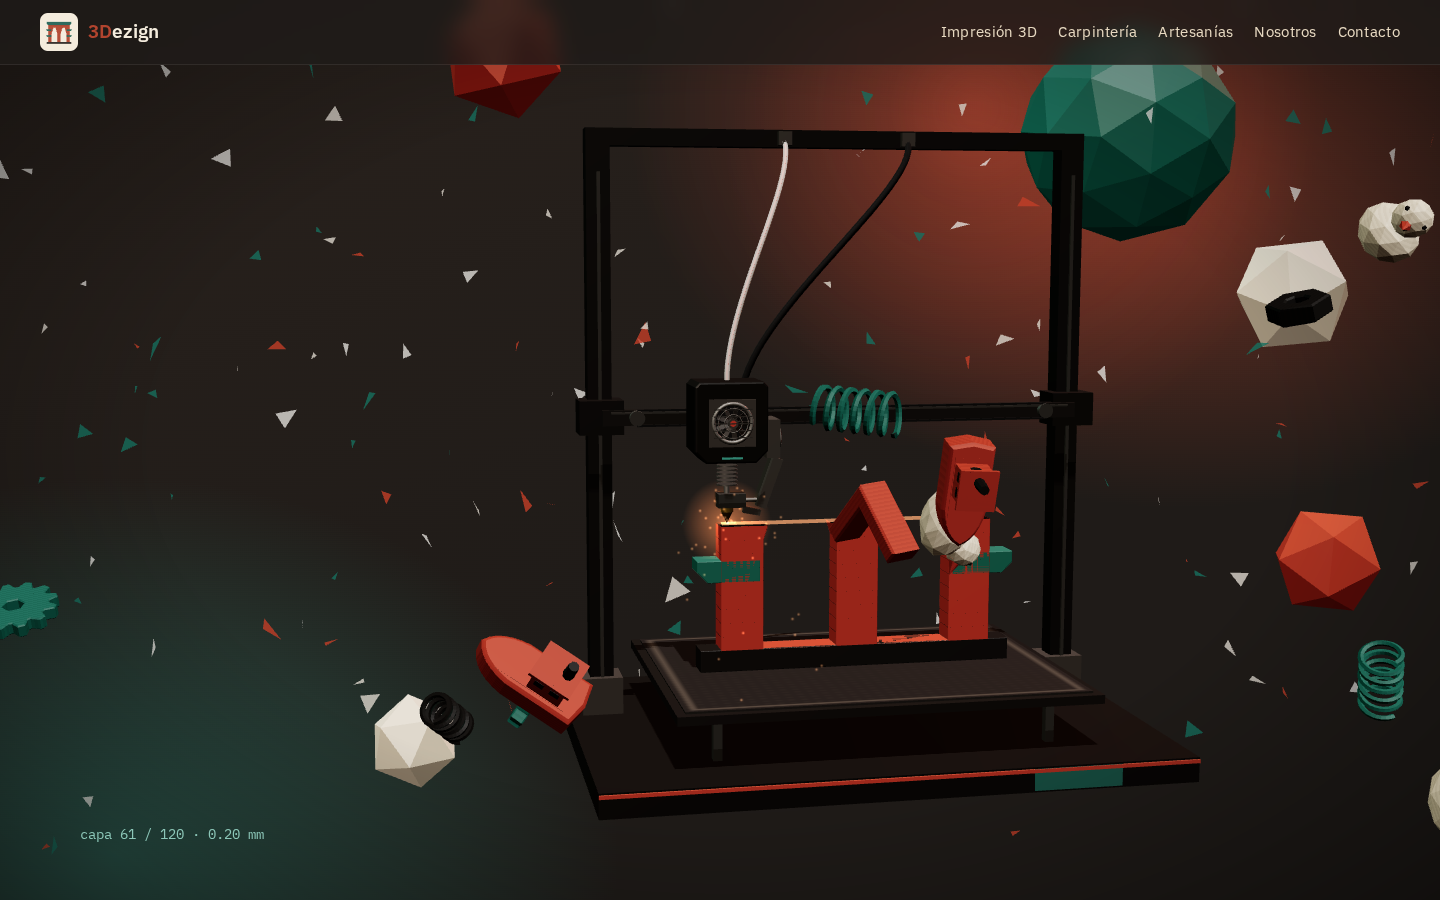
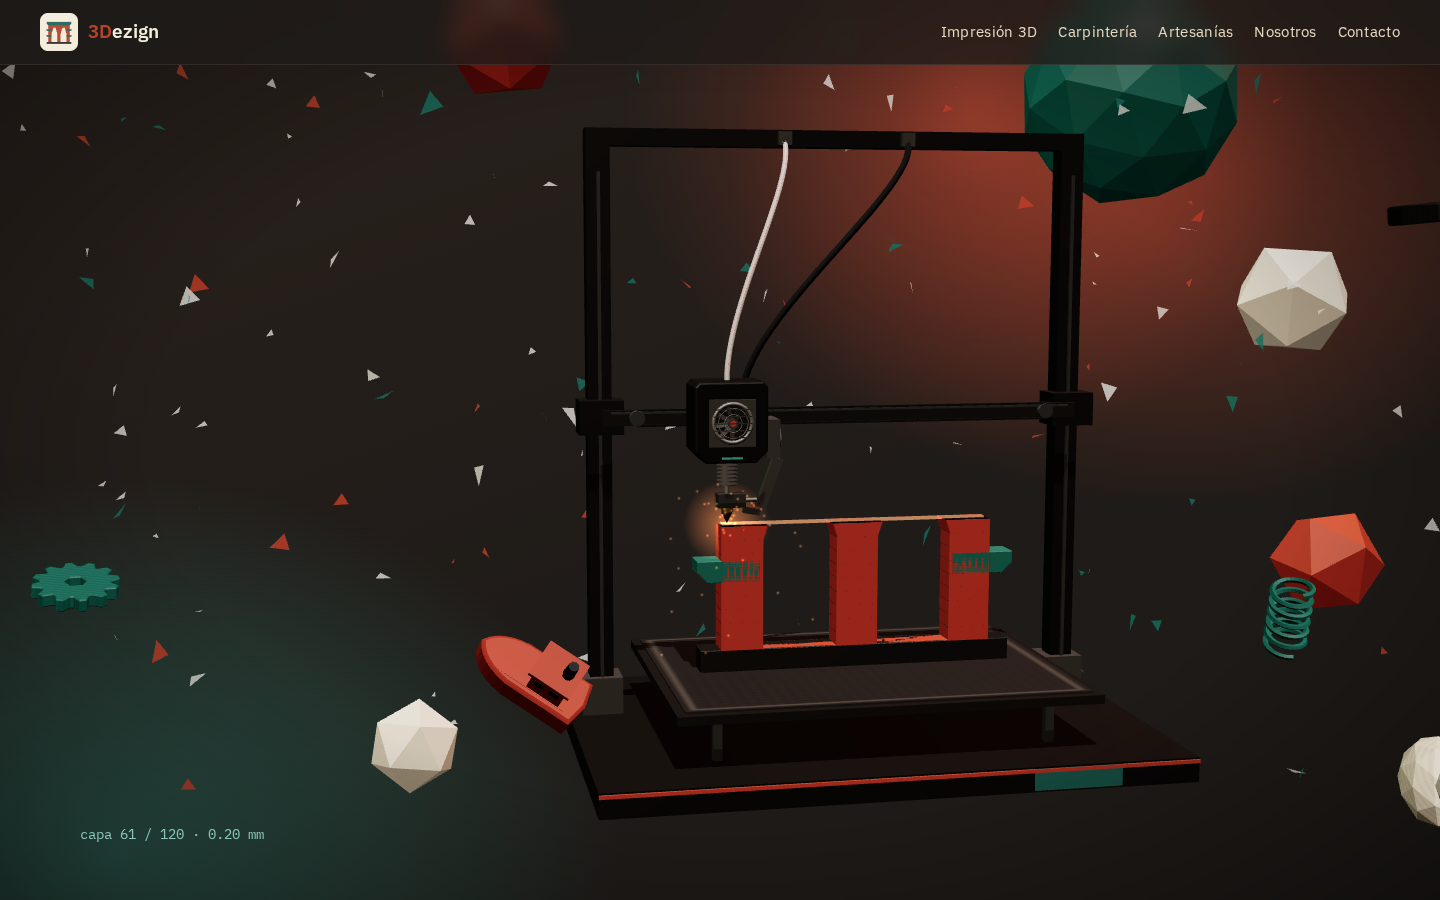
Objetos por sección (fondo 25% + blur), arco maya y gema low-poly, menú con Lenis, reduced-motion solo fundido, cámara <375px, capturas 360/pie

diff --git a/src/floaters.js b/src/floaters.js
@@ -68,6 +68,12 @@ function models(C) {
   const helix = Array.from({ length: 121 }, (_, i) => { const a = i / 120 * Math.PI * 2 * 6; return new THREE.Vector3(Math.cos(a) * 0.22, -0.45 + i / 120 * 0.9, Math.sin(a) * 0.22); });
   M.spring = [[flat(new THREE.TubeGeometry(new THREE.CatmullRomCurve3(helix), 160, 0.035, 5)), C.jade]];
   M.spring2 = [[flat(new THREE.TubeGeometry(new THREE.CatmullRomCurve3(helix.map(v => new THREE.Vector3(v.x * 0.7, v.y * 0.8, v.z * 0.7))), 160, 0.03, 5)), C.carbon]];
+  // --- Gema facetada (Artesanías)
+  M.gem = [[flat(new THREE.OctahedronGeometry(0.42, 0).scale(1, 1.35, 1)), C.jade]];
+  // --- Arco maya (isotipo): bloque con falsa bóveda escalonada
+  const ar = new THREE.Shape(); ar.moveTo(-0.5, -0.45); ar.lineTo(0.5, -0.45); ar.lineTo(0.5, 0.45); ar.lineTo(-0.5, 0.45); ar.closePath();
+  const vh = new THREE.Path(); [[-0.2, -0.45], [-0.2, -0.05], [-0.13, -0.05], [-0.13, 0.08], [-0.06, 0.08], [-0.06, 0.2], [0, 0.28], [0.06, 0.2], [0.06, 0.08], [0.13, 0.08], [0.13, -0.05], [0.2, -0.05], [0.2, -0.45]].forEach(([x, y], k) => k ? vh.lineTo(x, y) : vh.moveTo(x, y)); ar.holes.push(vh);
+  M.arch = [[ext(ar, 0.22, 0.015), C.terracota], [flat(at(new THREE.BoxGeometry(1.1, 0.08, 0.3), 0, 0.5, 0)), C.jade]];
   return M;
 }
 
@@ -84,13 +90,18 @@ export function createFloaters(canvas, { reduced, avoid = '' }) {
   const rim = new THREE.DirectionalLight(new THREE.Color(C.jade), 0.9); rim.position.set(-5, 2, -3); scene.add(rim);
 
   const M = models(C), mats = {};
-  const kinds = ['benchy', 'duck', 'gear', 'spring', 'nut', 'hinge', 'duck', 'bolt', 'bracket', 'gear2', 'benchy', 'flange', 'spring2', 'duck', 'gear', 'spring'];
-  const list = mobile ? ['benchy', 'duck', 'gear', 'spring', 'nut', 'gear2', 'spring2', 'duck', 'bolt'] : kinds;
+  // cada sección tiene sus objetos: Impresión = engranes + tuerca; Carpintería = escuadra + bisagra; Artesanías = patitos + gema; Nosotros = arco maya; Contacto = Benchy
+  const SEC = mobile
+    ? { hero: ['benchy', 'gear', 'duck', 'spring'], impresion: ['gear', 'nut', 'gear2'], carpinteria: ['bracket', 'hinge'], artesanias: ['duck', 'gem', 'duck'], nosotros: ['arch'], contacto: ['benchy'] }
+    : { hero: ['benchy', 'duck', 'gear', 'spring', 'nut', 'bolt', 'spring2', 'flange'], impresion: ['gear', 'nut', 'gear2', 'nut'], carpinteria: ['bracket', 'hinge', 'bracket'], artesanias: ['duck', 'gem', 'duck'], nosotros: ['arch', 'arch'], contacto: ['benchy', 'benchy'] };
+  const list = [], secOf = [];
+  for (const [sec, ks] of Object.entries(SEC)) ks.forEach(k => { list.push(k); secOf.push(sec); });
+  const BG = 0.25; // en secciones: fondo al 20 % de opacidad + desenfoque leve, el texto conserva su contraste
   const objs = list.map((k, i) => {
     const g = new THREE.Group(); for (const [geo, c] of M[k]) { const m = (mats[c] ??= printMat(c)).clone(); m.onBeforeCompile = mats[c].onBeforeCompile; m.transparent = true; g.add(new THREE.Mesh(geo, m)); } // geometría compartida, sin sombras
     const z = -1 - (i * 2.3 % 5);                     // profundidad → parallax
-    const side = mobile && i < 7 ? (i % 3 === 0 ? -1 : 1) : (i % 2 ? 1 : -1);                         // entra por izquierda o derecha
-    g.userData = { lane: mobile && i < 7, a: 1, z, side, off: i / list.length, speed: 0.9 + (i * 0.37 % 0.5), curve: 0.6 + (i * 0.53 % 1.2), spin: new THREE.Vector3(0.6 + i % 3 * 0.3, 1 + i % 2, 0.3), base: (mobile ? (i < 7 ? 0.4 : 0.42) : 0.95) * (0.85 + (i * 0.29 % 0.4)) };
+    const side = mobile ? (i % 3 === 0 ? -1 : 1) : (i % 2 ? 1 : -1);                         // entra por izquierda o derecha
+    g.userData = { sec: secOf[i], s: secOf[i] === 'hero' ? 1 : 0, lane: mobile || secOf[i] !== 'hero', a: 1, z, side, off: i / list.length, speed: 0.9 + (i * 0.37 % 0.5), curve: 0.6 + (i * 0.53 % 1.2), spin: new THREE.Vector3(0.6 + i % 3 * 0.3, 1 + i % 2, 0.3), base: (mobile ? 0.4 : 0.95) * (0.85 + (i * 0.29 % 0.4)) };
     g.scale.setScalar(g.userData.base); scene.add(g); return g;
   });
   let p = 0, W = 1, H = 1;
@@ -100,13 +111,15 @@ export function createFloaters(canvas, { reduced, avoid = '' }) {
   const halfAt = z => { const d = camera.position.z - z, hh = Math.tan(THREE.MathUtils.degToRad(camera.fov / 2)) * d; return [hh * camera.aspect, hh]; };
   function place(o, prog, t) {
     const u = o.userData, [hw, hh] = halfAt(u.z);
-    const f = ((prog * u.speed * 3 + u.off) % 1 + 1) % 1;             // cada objeto cruza ~3 veces en la página, escalonado
-    if (mobile && o.userData.lane) {
+    const lp = u.sec === 'hero' ? prog * 3 : (u.lp ?? 0); // objetos de sección: avanzan con el scroll de su propia sección
+    const f = ((lp * u.speed + u.off) % 1 + 1) % 1;             // cada objeto cruza ~3 veces en la página, escalonado
+    if (o.userData.lane) {
       // celular: carriles en los bordes; bajan/suben con el scroll asomándose medio fuera de pantalla
-      const f2 = ((prog * u.speed * 5 + u.off) % 1 + 1) % 1; // más pasadas en celular
-      const inner = hw - u.base * 0.55, out = hw + u.base * 0.8; // dentro: visible en huecos; fuera: escondido tras el borde
+      const f2 = ((lp * u.speed * (u.sec === 'hero' ? 5 / 3 : 1) + u.off) % 1 + 1) % 1; // más pasadas en celular
+      const inner = hw - u.base * (mobile ? 0.55 : 1.1), out = hw + u.base * 0.8; // dentro: visible en huecos; fuera: escondido tras el borde
       const x = u.side * THREE.MathUtils.lerp(out, inner, u.k ?? 0);
-      const y = THREE.MathUtils.lerp(1.15, -1.15, f2) * hh;
+      const yr = u.sec === 'hero' ? 1.15 : 0.82; // objetos de sección: siempre dentro de la pantalla mientras su sección está activa
+      const y = THREE.MathUtils.lerp(yr, -yr, u.sec === 'hero' ? f2 : 0.5 - 0.5 * Math.cos(f2 * Math.PI * 2)) * hh;
       o.position.set(x, y, u.z);
     } else {
     const x = THREE.MathUtils.lerp(-1.25, 1.25, f) * hw * u.side;
@@ -120,11 +133,11 @@ export function createFloaters(canvas, { reduced, avoid = '' }) {
   const v = new THREE.Vector3();
   function fade(o, rects, instant) {
     v.copy(o.position).project(camera);
-    const sx = (v.x + 1) / 2 * W, sy = (1 - v.y) / 2 * H, [, hh] = halfAt(o.userData.z), rad = o.userData.base * (mobile ? 0.6 : 0.8) / hh * H / 2 + (mobile ? (o.userData.lane ? 0 : 6) : 36); // margen amplio: se va antes de llegar
+    const sx = (v.x + 1) / 2 * W, sy = (1 - v.y) / 2 * H, [, hh] = halfAt(o.userData.z), rad = o.userData.lane ? o.userData.base * 0.6 / hh * H / 2 + 4 : o.userData.base * (mobile ? 0.6 : 0.8) / hh * H / 2 + (mobile ? 6 : 36); // margen amplio: se va antes de llegar
     const hit = rects.some(r => sx + rad > r.left && sx - rad < r.right && sy + rad > r.top && sy - rad < r.bottom);
-    const target = hit ? 0 : 1; o.userData.a = instant ? target : o.userData.a + (target - o.userData.a) * 0.3; if (o.userData.a < 0.03) o.userData.a = 0;
+    const u = o.userData, target = hit ? 0 : u.s * (u.sec === 'hero' ? 1 : BG); u.a = instant ? target : u.a + (target - u.a) * 0.3; if (o.userData.a < 0.01) o.userData.a = 0;
     o.visible = o.userData.a > 0;
-    o.traverse(m => { if (m.material) { m.material.opacity = o.userData.a; m.material.depthWrite = o.userData.a > 0.9; } });
+    o.traverse(m => { if (m.material) { m.material.opacity = o.userData.a; m.material.depthWrite = o.userData.a > 0.9 || (u.sec !== 'hero' && o.userData.a > BG * 0.9); } });
   }
   const els = avoid ? [...document.querySelectorAll(avoid)] : [];
     const rng = document.createRange();
@@ -133,13 +146,21 @@ export function createFloaters(canvas, { reduced, avoid = '' }) {
   function visibleRects() { const out = []; for (const e of els) { const r = e.getBoundingClientRect(); if (r.bottom < 0 || r.top > H || !r.width) continue; if (+getComputedStyle(e).opacity < 0.1) continue;
     if (tight(e)) { rng.selectNodeContents(e); out.push(...rng.getClientRects()); } else if (mobile && e.matches('.canales')) { for (const c of e.children) out.push(c.getBoundingClientRect()); } else out.push(r); } return out; }
   const hitAt = (x, y, z, rad, rects) => { v.set(x, y, z).project(camera); const sx = (v.x + 1) / 2 * W, sy = (1 - v.y) / 2 * H; return rects.some(r => sx + rad > r.left && sx - rad < r.right && sy + rad > r.top && sy - rad < r.bottom); };
-  function render(prog, t = 0, instant = false) { const rects = visibleRects(); for (const o of objs) {
-    if (mobile && o.userData.lane) { // carril de borde: entra a la pantalla solo donde hay hueco (entre bloques/secciones) y se esconde junto al texto
+  const secEls = {}; for (const k of Object.keys(SEC)) secEls[k] = k === 'hero' ? document.querySelector('.hero, #hero') : document.getElementById(k);
+  function sections() { // sección activa = la que ocupa el centro de la pantalla; progreso local de cada sección
+    let cur = 'hero'; const loc = {};
+    for (const [k, e] of Object.entries(secEls)) { if (!e || k === 'hero') continue; const r = e.getBoundingClientRect(); loc[k] = (H - r.top) / (r.height + H); if (r.top < H * 0.5 && r.bottom > H * 0.5) cur = k; }
+    if (secEls.impresion && secEls.impresion.getBoundingClientRect().top > H * 0.5) cur = 'hero';
+    for (const o of objs) { const u = o.userData; if (u.sec !== 'hero') u.lp = loc[u.sec] ?? 0; u.s += ((u.sec === cur ? 1 : 0) - u.s) * 0.2; if (u.s < 0.02) u.s = 0; }
+    canvas.style.filter = cur === 'hero' ? '' : 'blur(1.2px)';
+  }
+  function render(prog, t = 0, instant = false) { sections(); const rects = visibleRects(); for (const o of objs) {
+    if (o.userData.lane) { // carril de borde: entra a la pantalla solo donde hay hueco (entre bloques/secciones) y se esconde junto al texto
       const u = o.userData; place(o, prog, t); const [hw, hh] = halfAt(u.z), rad = u.base * 0.6 / hh * H / 2 + 4;
-      const free = !hitAt(u.side * (hw - u.base * 0.55), o.position.y, u.z, rad, rects);
+      const free = !hitAt(u.side * (hw - u.base * (mobile ? 0.55 : 1.1)), o.position.y, u.z, rad, rects);
       u.k = (u.k ?? 0) + ((free ? 1 : 0) - (u.k ?? 0)) * 0.35;
     }
-    place(o, prog, t); fade(o, rects, instant); } renderer.render(scene, camera); }
+    if (!o.userData.s && !o.userData.a) { o.visible = false; continue; } place(o, prog, t); fade(o, rects, instant); } renderer.render(scene, camera); }
   if (reduced) { // quietos: posiciones fijas en los márgenes, un solo render
     const fixed = mobile ? [[-0.85, -0.55], [0.85, -0.7], [-0.85, 0.55]] : [[-0.88, 0.6], [0.9, -0.65], [-0.9, -0.7], [0.88, 0.45]];
     objs.forEach((o, i) => { const f = fixed[i]; o.visible = !!f; if (!f) return; const [hw, hh] = halfAt(o.userData.z); o.position.set(f[0] * hw, f[1] * hh, o.userData.z); o.rotation.set(0.4, 0.6 + i, 0.1); });

diff --git a/src/main.js b/src/main.js
@@ -79,12 +79,17 @@ if (reduced) {
   const fc = document.querySelector('#floaters'), hero = document.querySelector('#hero');
   const clip = () => { const b = Math.max(0, hero.getBoundingClientRect().bottom); fc.style.clipPath = `inset(0 0 ${Math.max(0, innerHeight - b)}px 0)`; fc.style.visibility = b <= 0 ? 'hidden' : 'visible'; };
   clip(); addEventListener('scroll', clip, { passive: true }); addEventListener('resize', clip);
+  // secciones: solo fundido de opacidad (sin desplazamiento, sin acercamiento)
+  const io = new IntersectionObserver(es => es.forEach(e => { if (e.isIntersecting) { e.target.classList.add('in'); io.unobserve(e.target); } }), { rootMargin: '0px 0px -10% 0px' });
+  document.querySelectorAll('.reveal').forEach(el => io.observe(el));
   scene.setProgress(1); capa.textContent = 120; // el texto de cierre no se muestra: el hero ya ocupa ese espacio
 } else {
   const lenis = new Lenis();
   lenis.on('scroll', ScrollTrigger.update);
   gsap.ticker.add(t => lenis.raf(t * 1000)); gsap.ticker.lagSmoothing(0);
   window.__lenis = lenis;
+  // menú: directo a cada sección (Lenis no interfiere con el pin del hero)
+  document.querySelectorAll('.nav a[href^="#"]').forEach(a => a.addEventListener('click', e => { const el = document.querySelector(a.getAttribute('href')); if (!el) return; e.preventDefault(); lenis.scrollTo(el, { offset: -document.querySelector('.nav').offsetHeight, duration: 1.2 }); history.replaceState(null, '', a.getAttribute('href')); }));
   const st = ScrollTrigger.create({
     trigger: '#hero', start: 'top top', end: () => '+=' + window.innerHeight * 3,
     pin: true, scrub: 0.6,

diff --git a/src/style.css b/src/style.css
@@ -62,7 +62,8 @@ input,textarea{font:inherit;padding:.8rem 1rem;border-radius:10px;border:1px sol
 .canal small{font-family:var(--mono);opacity:.85}
 footer{background:var(--carbon);color:var(--arena);text-align:center;padding:2rem;font-size:.9rem}
 .reveal{opacity:0;transform:translateY(24px)}
-@media (prefers-reduced-motion:reduce){.reveal{opacity:1;transform:none}}
+@media (prefers-reduced-motion:reduce){.reveal{transform:none;transition:opacity .6s ease}.reveal.in{opacity:1}}
+section.s{scroll-margin-top:4rem}
 .card:hover{transform:translateY(-6px);box-shadow:0 14px 34px rgb(31 27 24 /.12)}
 @media (prefers-reduced-motion:reduce){.card{transition:none}.card:hover{transform:none}}
 #impresion{background:linear-gradient(to bottom,var(--carbon) 0,#4a3a30 3rem,#a8927a 7rem,var(--arena) 11rem);padding-top:calc(clamp(4rem,10vw,7rem) + 8rem)}

diff --git a/src/scene.js b/src/scene.js
@@ -200,7 +200,7 @@ export function createScene(canvas, { reduced }) {
     const w = canvas.clientWidth, h = canvas.clientHeight; renderer.setSize(w, h, false);
     camera.aspect = w / h; const mobile = w / h < 0.9;
     camera.fov = mobile ? 42 : 30; camera.updateProjectionMatrix();
-    if (mobile) { printer.position.set(0, -0.2, 0); camBase.set(0, 3.0, 14.5); camTarget.set(0, 2.6, 0); }
+    if (mobile) { printer.position.set(0, -0.2, 0); camBase.set(0, 3.0, 14.5); camTarget.set(0, 2.6, 0); if (w < 375) { camBase.set(0, 3.9, 15.5); camTarget.set(0, 3.5, 0); } } // <375 px: el modelo baja para que la tarjeta no tape el pórtico
     else { printer.position.set(1.7, 0, 0); camBase.set(-0.2, 2.8, 10.8); camTarget.set(0.9, 1.75, 0); }
     placeCamera(0);
     floor.position.copy(printer.position);
